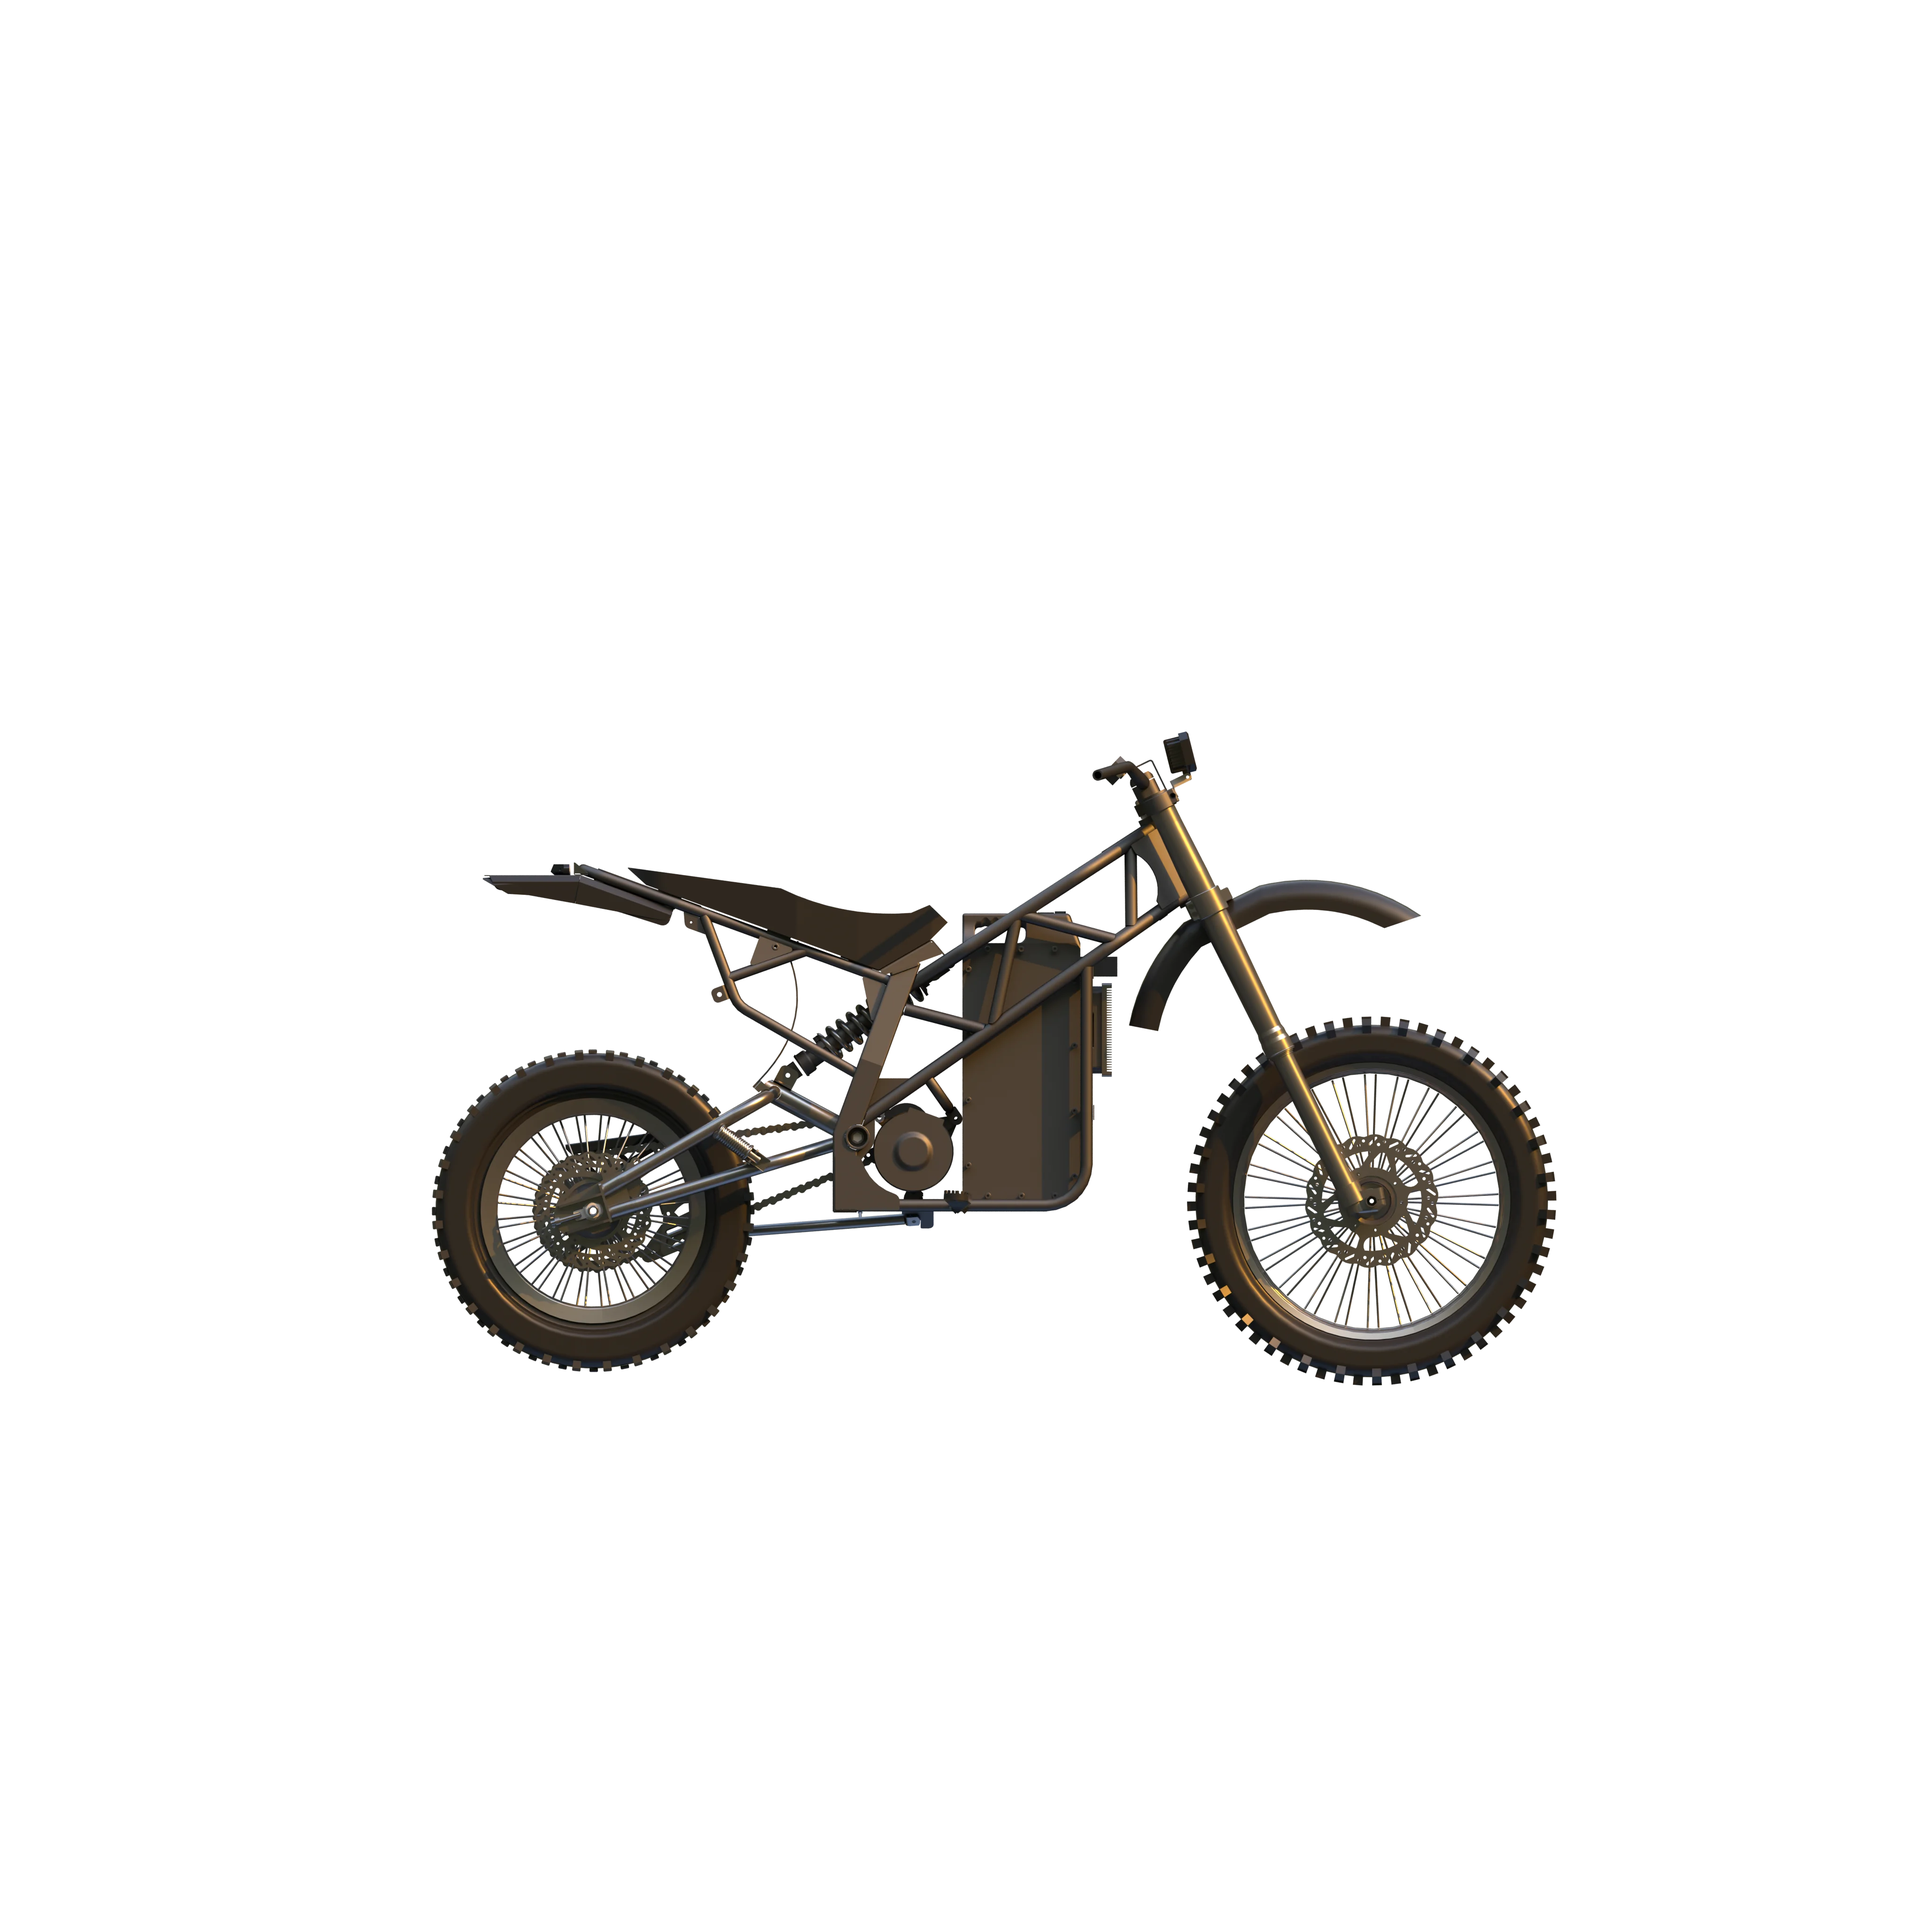
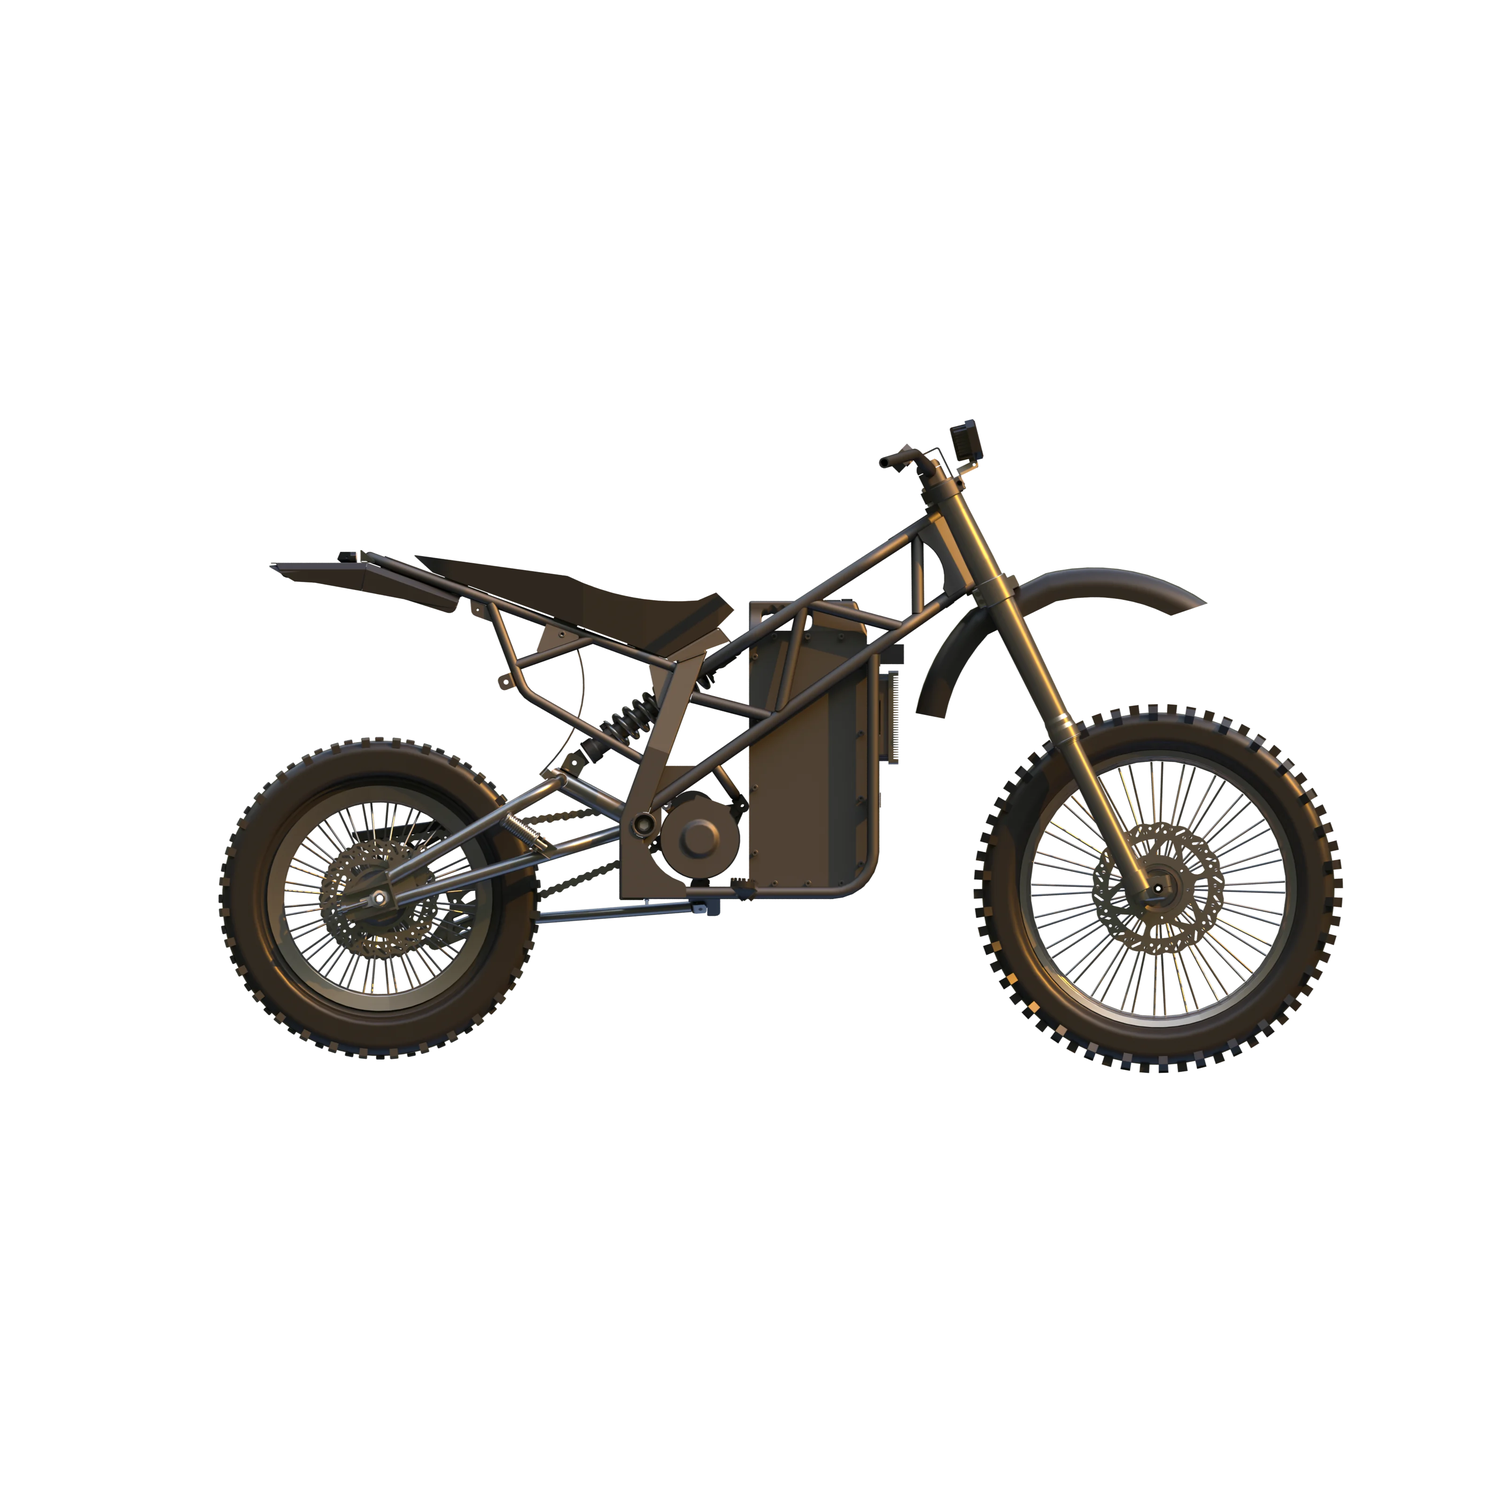
update

Changed region(s): [[0.125, 0.2812, 0.9062, 0.7188]]

diff --git a/src/Components/Products/ProductSections/ProductSections.tsx b/src/Components/Products/ProductSections/ProductSections.tsx
@@ -104,7 +104,11 @@ export function ProductSections({
   );
 
   const modelCardsRow = (
-    <div className="product-model-cards" role="list" aria-label={copy.modelListAria}>
+    <div
+      className="product-model-cards"
+      role="list"
+      aria-label={copy.modelListAria}
+    >
       {modelCardsList.map((label) => (
         <div key={label} className="product-model-card" role="listitem">
           {label}
